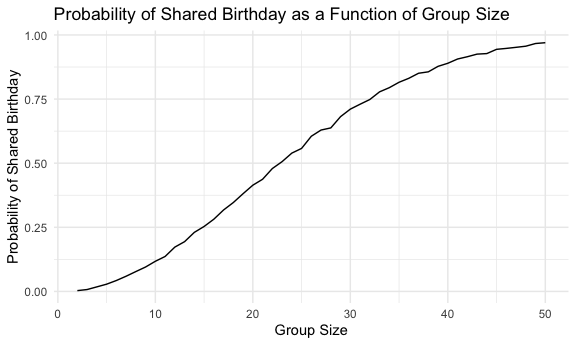
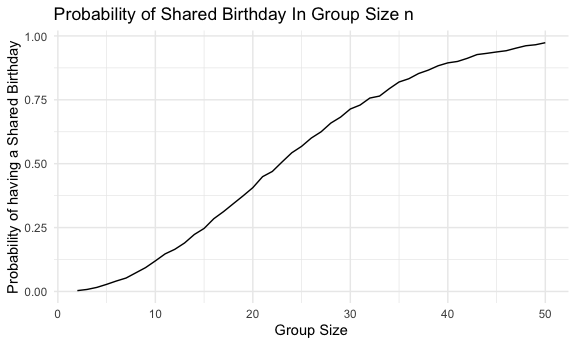
problem 2 and plotting

diff --git a/p8105_hw5_am5088.md b/p8105_hw5_am5088.md
@@ -110,7 +110,7 @@ set.seed
     ##     }
     ##     .Internal(set.seed(seed, i.knd, normal.kind, sample.kind))
     ## }
-    ## <bytecode: 0x1179b8ef0>
+    ## <bytecode: 0x10c9264d8>
     ## <environment: namespace:base>
 
 ``` r
@@ -133,16 +133,16 @@ print(results_df)
     ## # A tibble: 49 × 2
     ##    group_size prob_shared_birthdays
     ##         <int>                 <dbl>
-    ##  1          2                0.0031
-    ##  2          3                0.0073
-    ##  3          4                0.0177
-    ##  4          5                0.0282
-    ##  5          6                0.0425
-    ##  6          7                0.0592
-    ##  7          8                0.0774
-    ##  8          9                0.0952
-    ##  9         10                0.118 
-    ## 10         11                0.136 
+    ##  1          2                0.0033
+    ##  2          3                0.0079
+    ##  3          4                0.0159
+    ##  4          5                0.0278
+    ##  5          6                0.0409
+    ##  6          7                0.0526
+    ##  7          8                0.073 
+    ##  8          9                0.0934
+    ##  9         10                0.120 
+    ## 10         11                0.147 
     ## # ℹ 39 more rows
 
 Plot my results table
@@ -151,9 +151,9 @@ Plot my results table
 ggplot(results_df, aes(x = group_size, y = prob_shared_birthdays)) +
 geom_line() +
 labs(
-  title = "Probability of Shared Birthday as a Function of Group Size",
+  title = "Probability of Shared Birthday In Group Size n",
   x = "Group Size",
-  y = "Probability of Shared Birthday"
+  y = "Probability of having a Shared Birthday"
   )
 ```
 
@@ -170,3 +170,85 @@ of duplicated birthdays across the 365 days we count in Western society.
 On the other hand in my group of close friends which is less than 10,
 there are no duplicated birthdays because that probability is lower in a
 smaller sample.
+
+## Problem 2
+
+When designing an experiment or analysis, a common question is whether
+it is likely that a true effect will be detected – put differently,
+whether a false null hypothesis will be rejected. The probability that a
+false null hypothesis is rejected is referred to as power, and it
+depends on several factors, including: the sample size; the effect size;
+and the error variance. In this problem, you will conduct a simulation
+to explore power in a one-sample t-test.
+
+``` r
+sim_t_test = function(mu, n = 30, sigma = 5, num_sim = 5000) {
+  replicate(num_sim, {
+  x = rnorm(n, mean = mu, sd = sigma)
+    
+  t_test = t.test(x, mu = 0)
+    
+  broom::tidy(t_test)
+  }, simplify = FALSE) %>% 
+    bind_rows() %>% 
+    mutate(true_mu = mu)
+}
+```
+
+Repeat the above for 𝜇={1,2,3,4,5,6} and complete the following:
+
+Make a plot showing the proportion of times the null was rejected (the
+power of the test) on the y axis and the true value of 𝜇 on the x axis.
+Describe the association between effect size and power. Make a plot
+showing the average estimate of 𝜇̂ on the y axis and the true value of 𝜇
+on the x axis. Make a second plot (or overlay on the first) the average
+estimate of 𝜇̂ only in samples for which the null was rejected on the y
+axis and the true value of 𝜇 on the x axis. Is the sample average of 𝜇̂
+across tests for which the null is rejected approximately equal to the
+true value of 𝜇 ? Why or why not?
+
+``` r
+repeat_mu_values = 0:6
+
+repeat_mu_df = map_dfr(repeat_mu_values, ~ sim_t_test(mu = .x))
+```
+
+plot showing proportion of times null was rejected (power)
+
+``` r
+summary_df = repeat_mu_df %>%
+group_by(true_mu) %>%
+  summarize(
+    power = mean(p.value < 0.05),
+    avg_mu_hat = mean(estimate),
+    avg_mu_hat_rejected = mean(estimate[p.value < 0.05])
+  )
+
+ggplot(summary_df, aes(x = true_mu, y = power)) +
+  geom_line() +
+  labs(
+  title = "Power of the T-Test by true μ",
+  x = "True μ",
+  y = "# of null rejections"
+  ) +
+  theme_minimal()
+```
+
+<img src="p8105_hw5_am5088_files/figure-gfm/plot null rejection frequency-1.png" width="90%" />
+
+``` r
+ggplot(summary_df, aes(x = true_mu)) +
+  geom_line(aes(y = avg_mu_hat, color = "All Samples")) +
+  geom_line(aes(y = avg_mu_hat_rejected, color = "Rejected Null")) +
+  labs(
+  title = "Average Estimate of μ̂ by True μ",
+  x = "True μ",
+  y = "Average μ̂") +
+  scale_color_manual(
+    values = c("All Samples" = "green", "Rejected Null" = "blue"),
+    name = "Condition"
+  ) +
+  theme_minimal()
+```
+
+<img src="p8105_hw5_am5088_files/figure-gfm/plot null rejection frequency-2.png" width="90%" />
